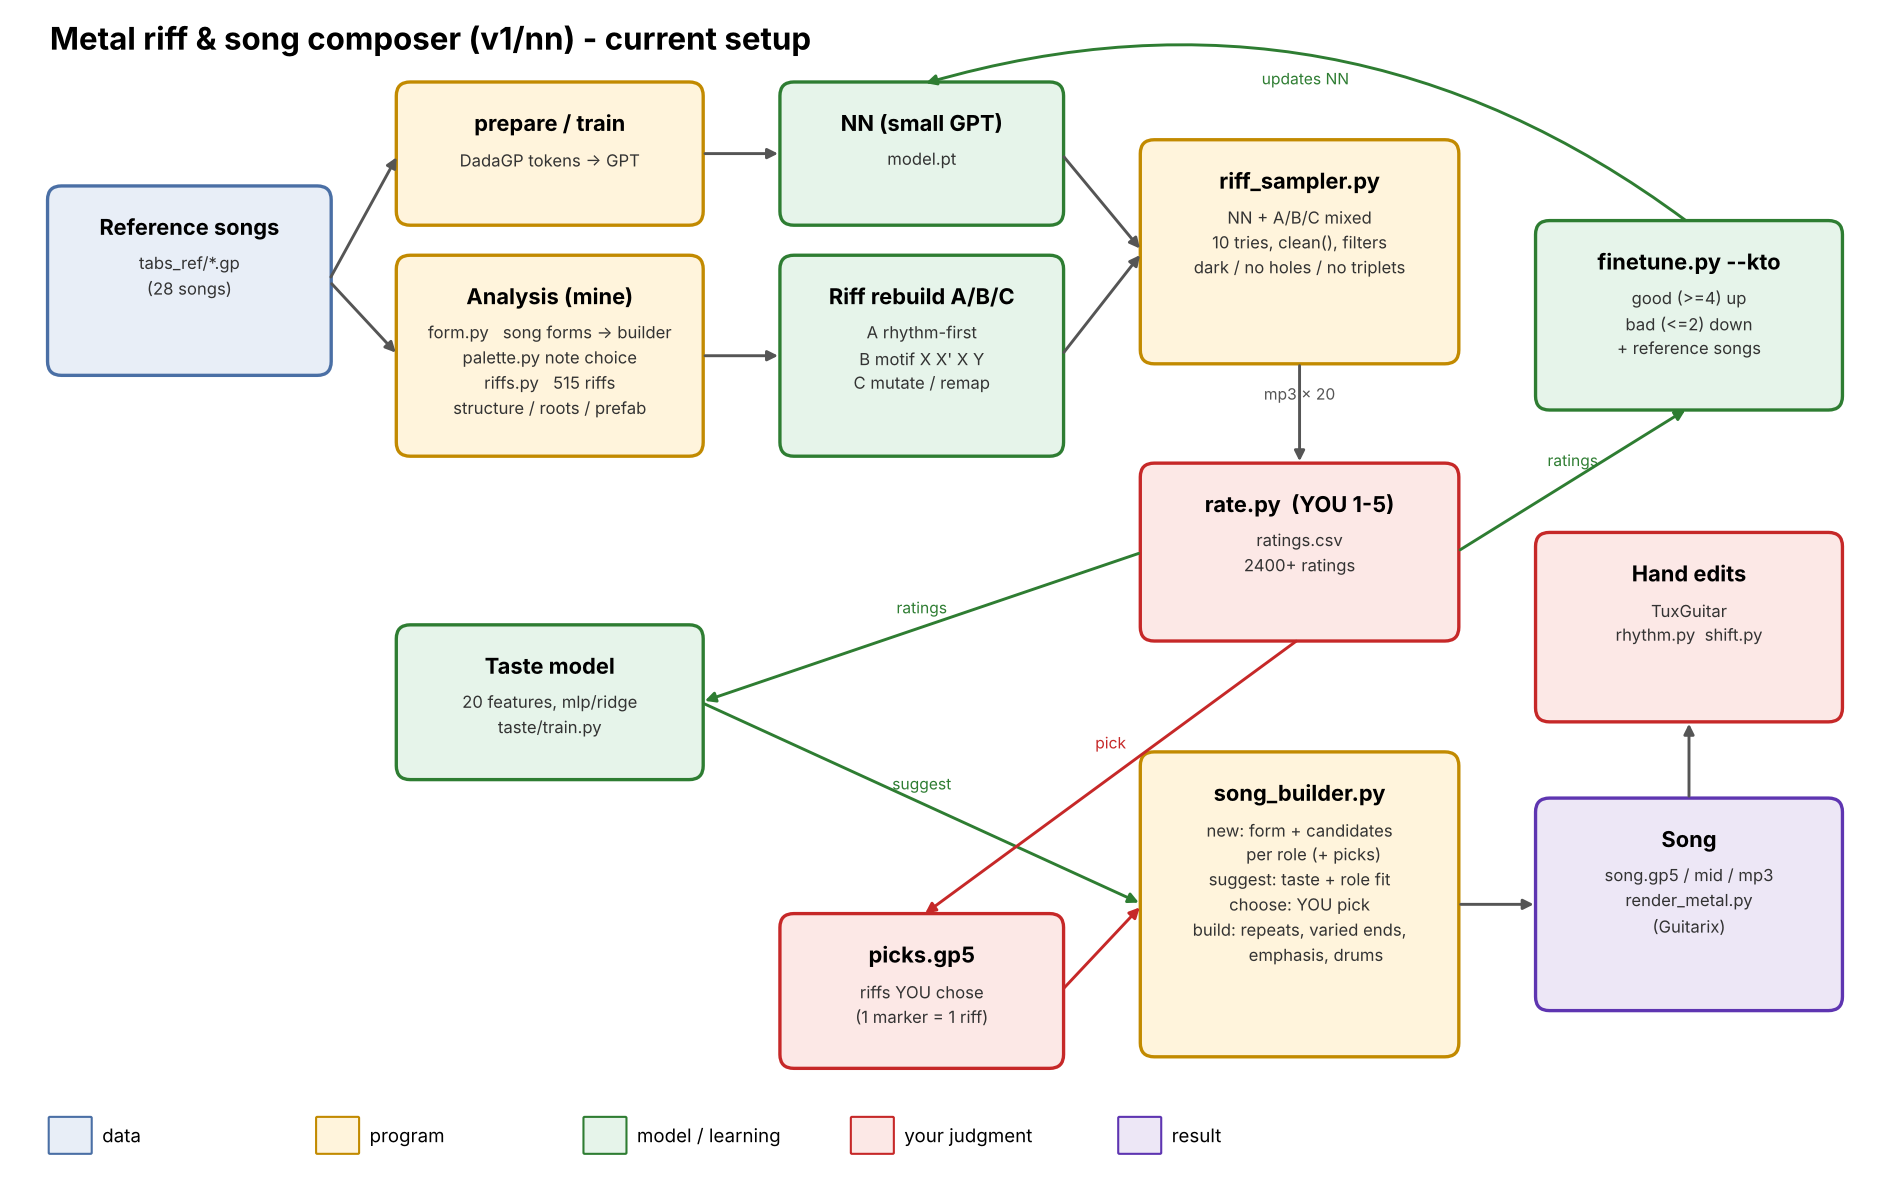
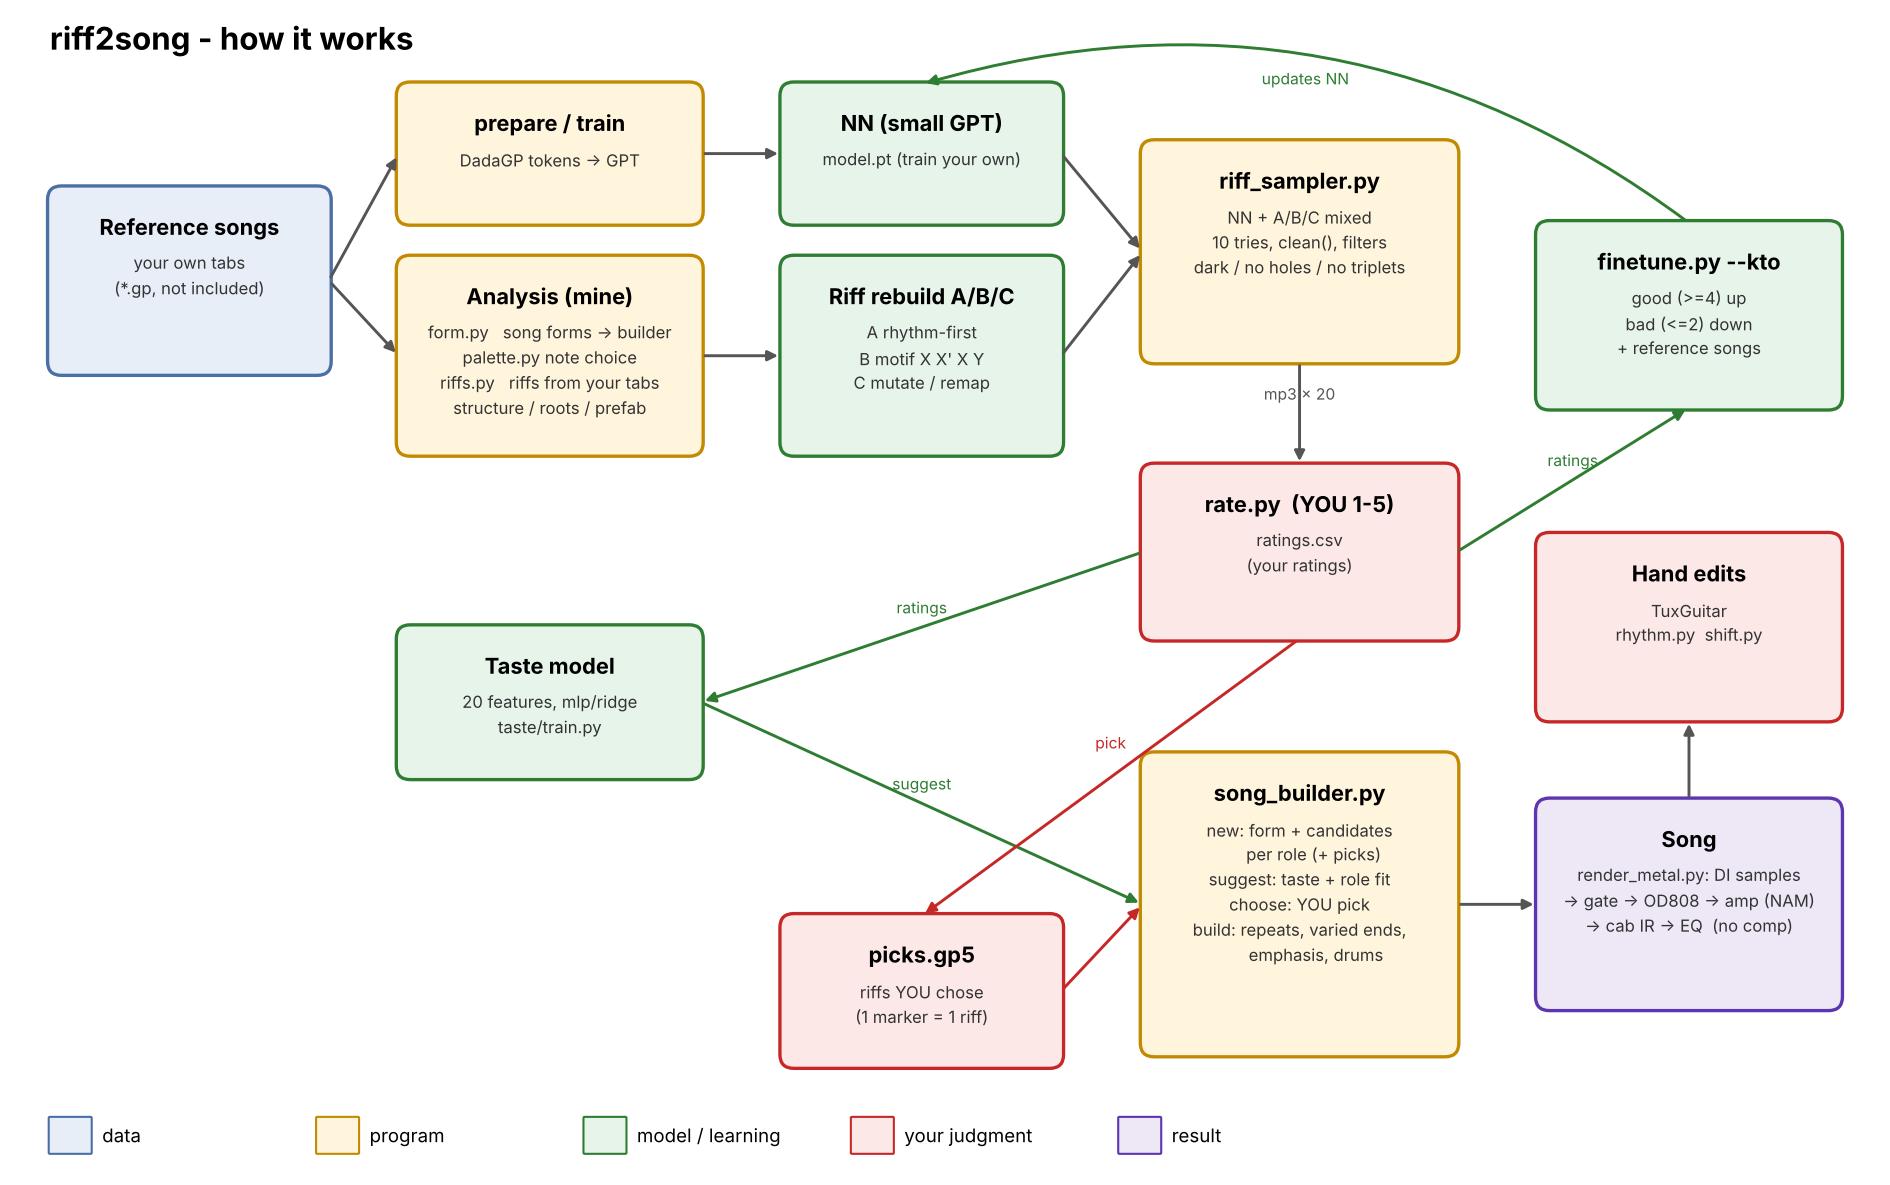
Update diagram, add demo link

diff --git a/README.md b/README.md
@@ -6,6 +6,11 @@ and amp captures.
 > Status: demo / personal research tool. It works, but it expects you to bring your own data
 > (reference tabs, the DadaGP dataset) and to spend time rating riffs.
 
+## Demo
+
+A full song built from picked riffs, rendered and mastered with this tool:
+**[listen (Releases)](https://github.com/vermiscore/riff2song/releases)** - `riff2song_demo.mp3`
+
 ![system diagram](docs/system_diagram.png)
 
 ## Concept
